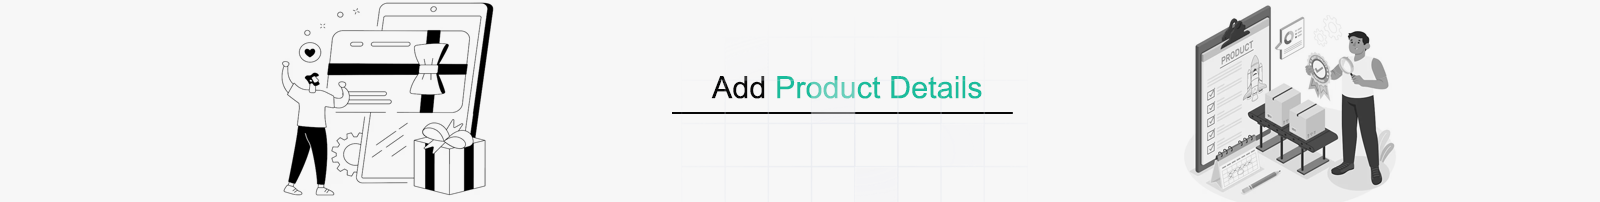
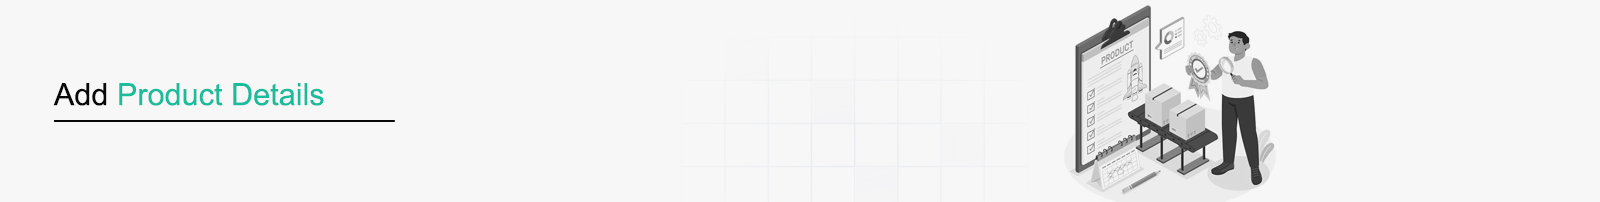
updated ui design

diff --git a/src/app/user-type-details/user-type-details.component.html b/src/app/user-type-details/user-type-details.component.html
@@ -8,11 +8,10 @@
         name="search" [(ngModel)]="searchText" 
       />
     </div> -->
+    <div><img src="../../assets/img/illustrations/view-users.png" width="100%"></div>
     <div class=" container-fluid">
-          <h4 class="fw-bold py-3 mb-4 text-center">
-            <span class="text-muted fw-light">View </span> Users
-          </h4>
-        <div class="row mb-3">
+           
+        <div class="row mb-3 mt-5">
           <div class="col-md-6">
             <label for="country" class="form-label">Distributor:</label>
             <select  class="form-select" (change)="selectDist($event)">
@@ -36,7 +35,7 @@
       </div>
   
   <!-- /Search -->
-  <div class="table-responsive text-nowrap table-striped mt-4">
+  <div class="table-responsive text-nowrap table-striped mt-4 px-3">
     <table class="table">
       <thead class="table-light">
         <tr>

diff --git a/src/app/product-details/product-details.component.html b/src/app/product-details/product-details.component.html
@@ -1,3 +1,4 @@
+<div><img src="../../assets/img/illustrations/product-search.png" width="100%"></div>
 <div class="navbar-nav align-items-center " style="width: 60%; align-items: end; padding-right: 13px; float: right; margin-bottom: 10px;">
   <!-- <div class=" d-flex align-items-center w-50 p-4">
     <i class="bx bx-search fs-4 lh-0"></i>
@@ -8,6 +9,7 @@
       name="search" [(ngModel)]="searchText" 
     />
   </div> -->
+ 
   <div class="input-group m-t-15"><input  type="text"
     class="form-control  shadow col-md-8"
     placeholder="Search..."

diff --git a/src/app/user-list/user-list.component.html b/src/app/user-list/user-list.component.html
@@ -1,7 +1,7 @@
 
 
 
-  
+<div><img src="../../assets/img/illustrations/search-dist.png" width="100%"></div>
 
   
   <div class="">

diff --git a/src/app/user-type-details/user-type-details.component.scss b/src/app/user-type-details/user-type-details.component.scss
@@ -1,0 +1,5 @@
+.table:not(.table-dark) th{
+    color: #ffffff;
+    background: #1abc9c;
+    font-weight: bold;
+}
